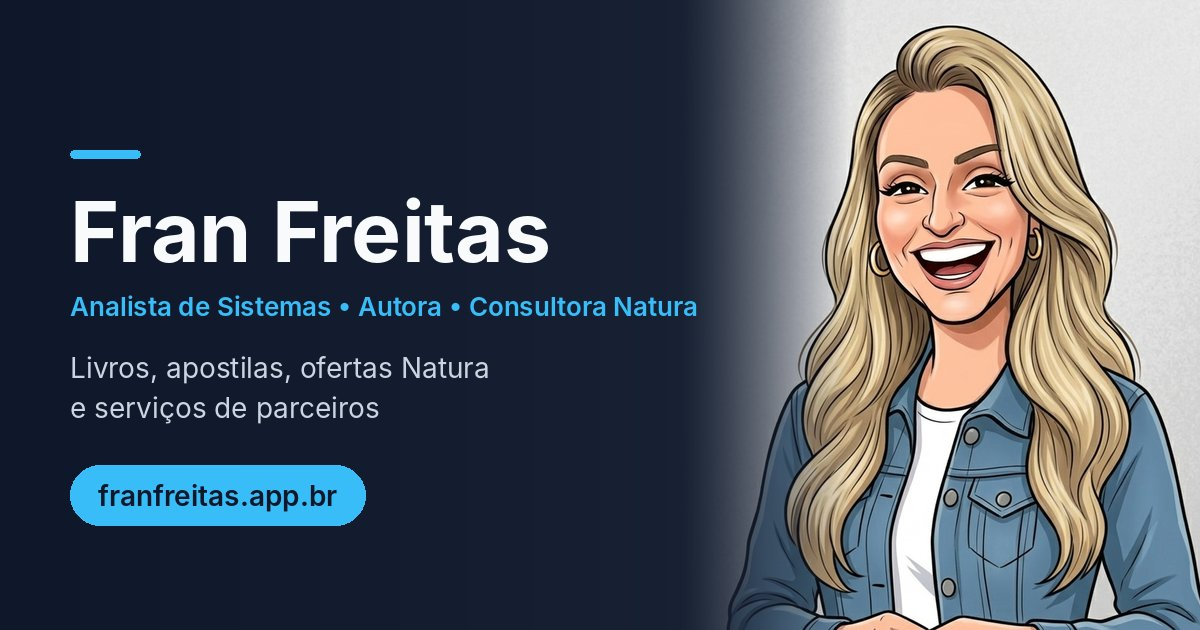
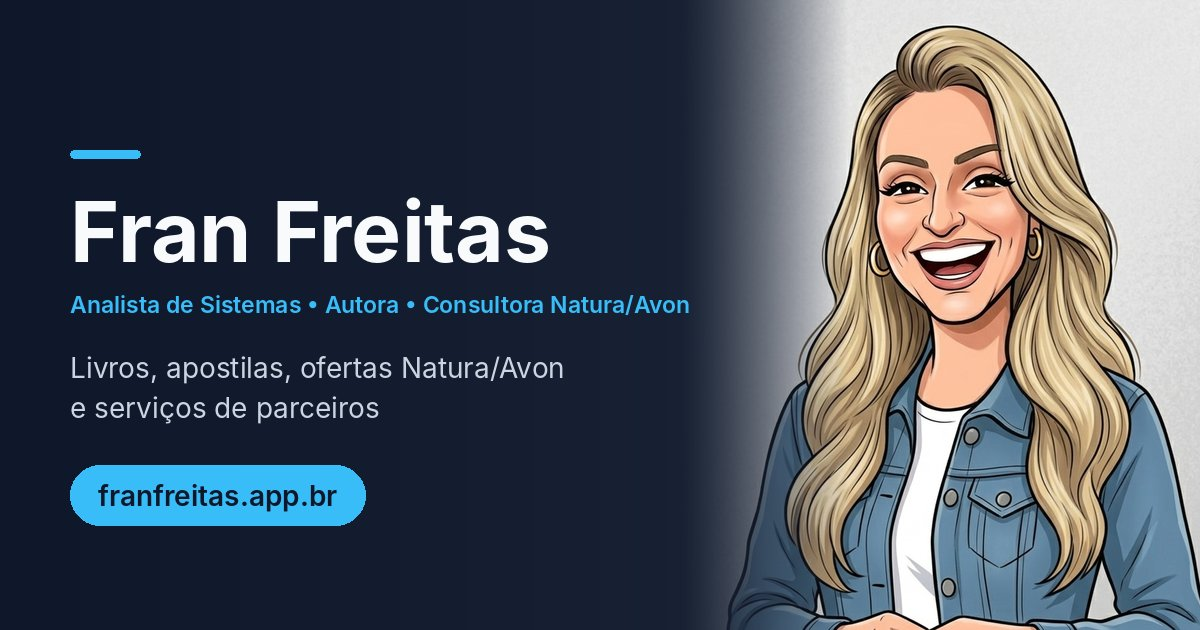
Inclui Avon na apresentacao

Changed region(s): [[0.0617, 0.4524, 0.5858, 0.5127], [0.4008, 0.573, 0.4625, 0.6032]]

diff --git a/index.html b/index.html
@@ -4,7 +4,7 @@
     <meta charset="UTF-8">
     <meta name="viewport" content="width=device-width, initial-scale=1.0">
     <title>Fran Freitas | Tecnologia, Livros, Beleza e Parceiros</title>
-    <meta name="description" content="Analista de Sistemas, autora e consultora Natura. Livros, apostilas, ofertas Natura e serviços de parceiros.">
+    <meta name="description" content="Analista de Sistemas, autora e consultora Natura/Avon. Livros, apostilas, ofertas Natura/Avon e serviços de parceiros.">
     <meta name="theme-color" content="#0f172a">
 
     <!-- Ícone da aba do navegador -->
@@ -15,7 +15,7 @@
     <meta property="og:type" content="website">
     <meta property="og:url" content="https://franfreitas.app.br/">
     <meta property="og:title" content="Fran Freitas | Tecnologia, Livros, Beleza e Parceiros">
-    <meta property="og:description" content="Livros, apostilas, ofertas Natura e serviços de parceiros.">
+    <meta property="og:description" content="Livros, apostilas, ofertas Natura/Avon e serviços de parceiros.">
     <meta property="og:image" content="https://franfreitas.app.br/preview-site.jpg">
     <meta property="og:image:width" content="1200">
     <meta property="og:image:height" content="630">
@@ -23,7 +23,7 @@
     <meta property="og:locale" content="pt_BR">
     <meta name="twitter:card" content="summary_large_image">
     <meta name="twitter:title" content="Fran Freitas | Tecnologia, Livros, Beleza e Parceiros">
-    <meta name="twitter:description" content="Livros, apostilas, ofertas Natura e serviços de parceiros.">
+    <meta name="twitter:description" content="Livros, apostilas, ofertas Natura/Avon e serviços de parceiros.">
     <meta name="twitter:image" content="https://franfreitas.app.br/preview-site.jpg">
     <!-- Google Fonts -->
     <link href="https://fonts.googleapis.com/css2?family=Inter:wght@400;500;600;700&display=swap" rel="stylesheet">
@@ -486,8 +486,8 @@
         </div>
 
         <h1>Fran Freitas</h1>
-        <p class="tagline">Analista de Sistemas • Autora • Consultora Natura</p>
-        <p class="bio">Livros, apostilas, ofertas Natura e serviços de parceiros 🌸💻</p>
+        <p class="tagline">Analista de Sistemas • Autora • Consultora Natura/Avon</p>
+        <p class="bio">Livros, apostilas, ofertas Natura/Avon e serviços de parceiros 🌸💻</p>
 
         <!-- Ícones das redes sociais -->
         <div class="social-links">
@@ -512,7 +512,7 @@
             </a>
             FIM INSTAGRAM -->
 
-            <a href="https://www.minhaloja.natura.com/consultoria/francielef1009" target="_blank" rel="noopener" class="natura" aria-label="Loja Natura" title="Minha loja Natura">
+            <a href="https://www.minhaloja.natura.com/consultoria/francielef1009" target="_blank" rel="noopener" class="natura" aria-label="Loja Natura e Avon" title="Minha loja Natura e Avon">
                 <i class="fa-solid fa-bag-shopping"></i>
             </a>
 
